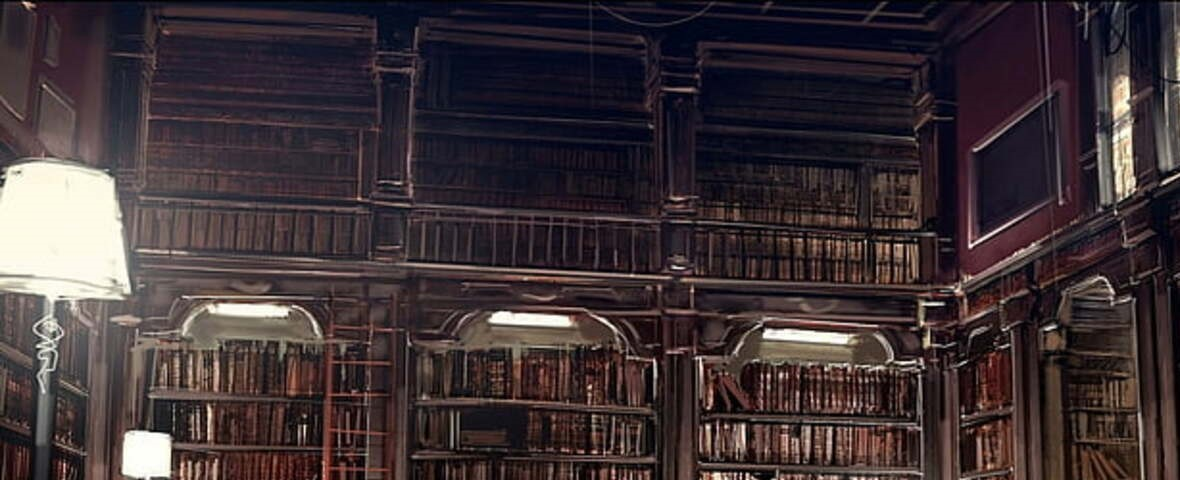
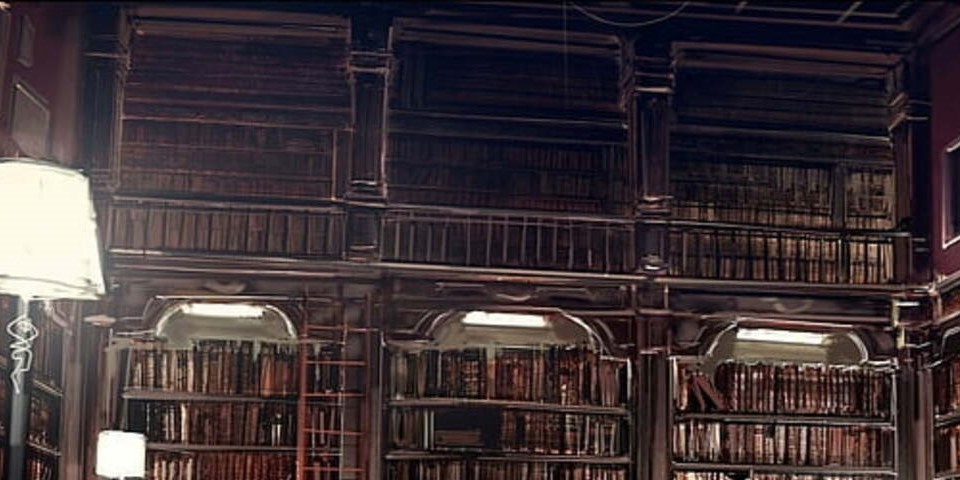
Responsive design de la página de conocenos

diff --git a/css/conocenos.css b/css/conocenos.css
@@ -18,9 +18,11 @@ h3{
 
 .contenedorCards{
     background-color: #58536A;
+    width: 100%;
     height: 300px;
     padding: 30px;
     display: flex;
+    flex-wrap: wrap;
 }
 
 #imagen{
@@ -31,8 +33,8 @@ h3{
 
 #card{
     background-color: #58536A;
-    width: 400px;
-    height: 200px;
+    width: 33%;
+    height: auto;
     background-color: #58536A;
     border:0;
 }
@@ -49,11 +51,16 @@ h3{
  .containerTransparente {
     position: relative;
     margin: 0 auto;
+    
 }
 
 .containerTransparente img {
     vertical-align: middle;
     width: 100%;
+}
+
+.imgConocenos{
+    height: 100%;
 }
 
 .containerTransparente .contentTransparente {
@@ -64,11 +71,14 @@ h3{
     background: rgba(0, 0, 0, 0.5);
     /* Black background with 0.5 opacity */
     color: #f1f1f1;
-    width: 100%;
     height: 100%;
     display: flex;
     padding: 0px;
     justify-content: right;
+}
+
+.contentTransparente{
+    height: 100%;
 }
 
 .contenedorTexto{
@@ -76,6 +86,15 @@ h3{
     height: 100%;
     padding: 40px;
 }
+
+.imgConocenos{
+    width: 100%;
+}
+
+#imgConocenos{
+    height:80ch
+}
+
 
 #titImagenTransparente {
     font-size: 35px;
@@ -90,59 +109,24 @@ h3{
     text-align: justify;
 }
 
-
-@media (max-width:1000px) {
-    .contenedor {
-        max-width: 90%;
+@media (max-width:1400px) {
+    #card{
+        width: 50%;
+    }
+    .contenedorTexto{
+        width: 80%;
     }
 }
 
-
-@media (max-width:900px) {
-    #card1{
-        flex-direction: column;
+@media (max-width:992px) {
+    #card{
+        width: 100%;
     }
-    #card2{
-        flex-direction: column;
-    }
-}
-
-
-@media (max-width:700px) {
-    #card1,
-    #card2,
-    #card1{
-        flex: 1 1 100%;
-    } 
-}
-
-@media (max-width:700px){
-    .card-body{
-        flex: 1 1 100%;
+    .contenedorTexto{
+        width: 100%;
     }
 }
 
-@media (max-width:590px) {
-    .contenedor{
-        max-width: 100%;
-        margin: 0;
-    }
-    header {
-        padding: 1rem 0 0 0;
-        justify-content: center;
-        align-items: stretch;
-    }
-    header a.logo {
-        align-self: center;
-        padding: 1rem;
-    }
-    header nav ul {
-        flex-direction: column;
-    }
-    header nav ul li a {
-        margin: 0;
-        border-radius: 0;
-        border-bottom: 1px solid #af0f0f;
-        text-align: center;
-    }
+@media (max-width:576px) {
+    
 }

diff --git a/sources/Paginas/conocenos.php b/sources/Paginas/conocenos.php
@@ -11,15 +11,12 @@
 
     <meta name="viewport" content="width=device-width, initial-scale=1">
     <link rel="stylesheet" href="../../css/conocenos.css">
-    <script src="https://cdn.jsdelivr.net/npm/bootstrap@5.2.3/dist/js/bootstrap.bundle.min.js"
-        integrity="sha384-kenU1KFdBIe4zVF0s0G1M5b4hcpxyD9F7jL+jjXkk+Q2h455rYXK/7HAuoJl+0I4" crossorigin="anonymous">
-    </script>
 
 </head>
 
 <body>
     <div class="containerTransparente">
-        <img src="../../media/nosotros/Historia.jpg" alt="Conócenos">
+        <img src="../../media/nosotros/Historia.jpg" id="imgConocenos" alt="Conócenos">
         <div class="contentTransparente">
             <div class="contenedorTexto">
                 <br><br>
@@ -34,10 +31,10 @@
             </div>
         </div>
     </div>
-
     <br><br>
     <h3>Conoce al team</h3>
     <div class="contenedorCards">
+    
     <br><br>
         <div class="card mb-3" id="card">
             <div class="row g-0">
@@ -108,11 +105,6 @@
                 </div>
             </div>
         </div>
-
-
-    </div>
-
-    <div class="contenedorCards">
         <div class="card mb-3" id="card">
             <div class="row g-0">
                 <div class="col-md-4" id="imagen">
